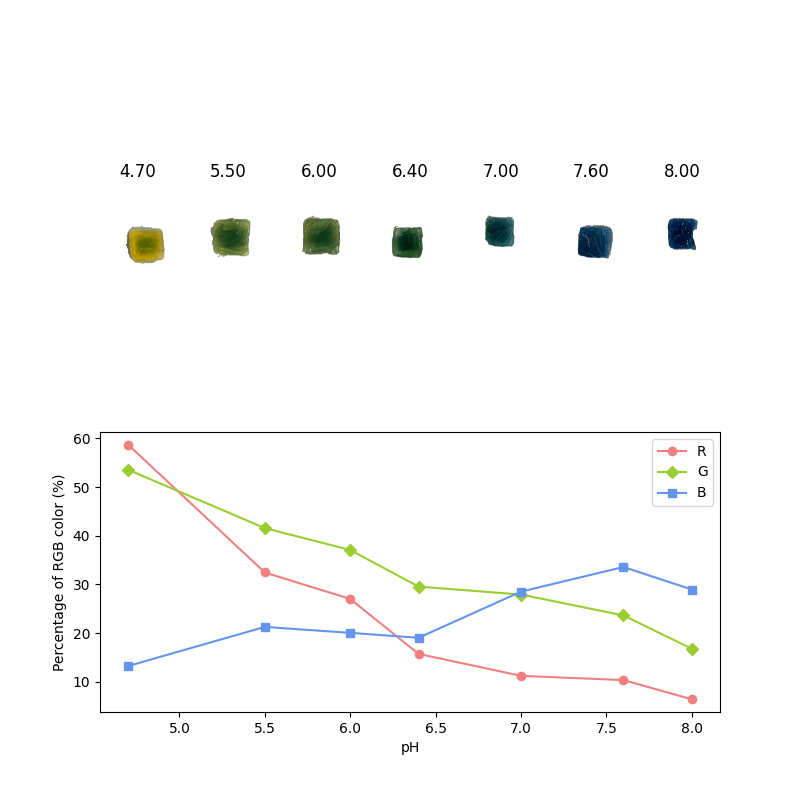
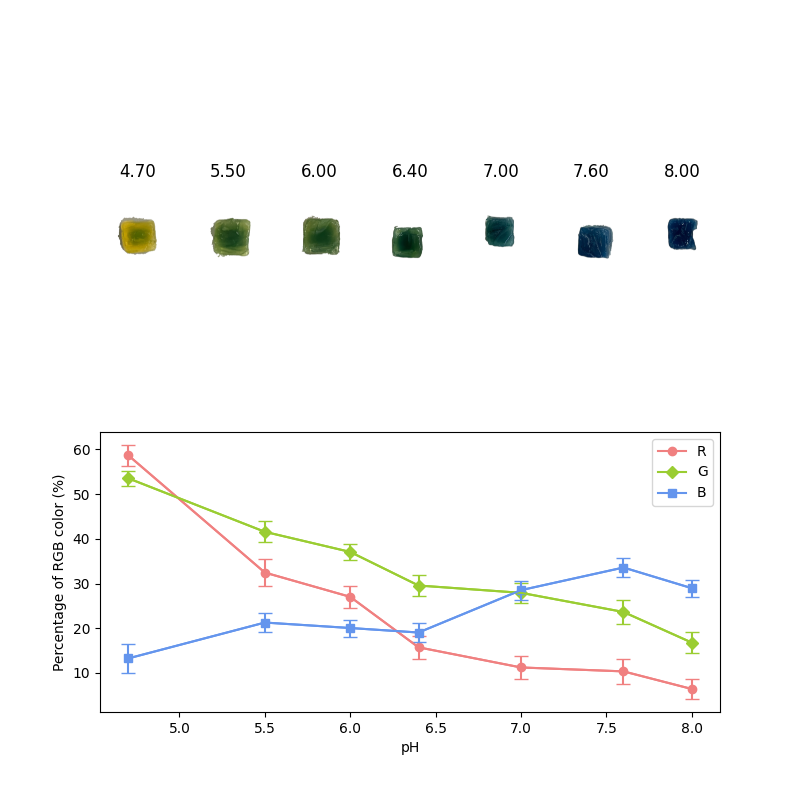
1

diff --git a/rgb_recognizer.py b/rgb_recognizer.py
@@ -1,4 +1,3 @@
-import csv
 import matplotlib.pyplot as plt
 from natsort import natsorted
 import numpy as np
@@ -6,6 +5,7 @@ import os
 import re
 import scipy.ndimage as nd
 import skimage as ski
+import statistics
 
 
 def mask_without_background(img):
@@ -62,7 +62,7 @@ def load_images(folder_name):
     image_dict[filename] = ski.io.imread(file_path)
   return image_dict
 
-def average_rgb(img):
+def get_rgb(img):
   """Get the average RGB of an image."""
   # Create a mask for white regions
   white_mask = np.all(img == [255, 255, 255], axis=-1)
@@ -73,7 +73,9 @@ def average_rgb(img):
   # Calculate the average RGB values for non-white regions
   average_rgb = np.mean(non_white_pixels, axis=0)
   normalized_rgb = [i*100/255 for i in average_rgb]
-  return normalized_rgb
+  # Calculate the standard deviation of each color
+  st_dev = [statistics.stdev([p[i]*20/255 for p in non_white_pixels]) for i in range(3)]
+  return normalized_rgb, st_dev
 
 def comparison(imgs):
   """Display the result of comparison and the RGB value of each one."""
@@ -98,23 +100,32 @@ def comparison(imgs):
   # Show RGB values
   pHs = np.array([float(re.findall(r'\d+\.\d+', i)[0]) for i in image_names])
   rgb = []
+  sd = []
   for i in image_names:
-    rgb.append(average_rgb(processed_images[i]))
-  # Show values of R
+    color, st_dev = get_rgb(processed_images[i])
+    rgb.append(color)
+    sd.append(st_dev)
+  # Plots and errorbars of R
   red = np.array([i[0] for i in rgb])
+  red_sd = [i[0] for i in sd]
   p1 = axes[1, 0].plot(pHs, red, color="lightcoral", marker="o")
-  # Show values of G
+  axes[1, 0].errorbar(pHs, red, red_sd, color="lightcoral", capsize=5)
+  # Plots and errorbars of G
   green = np.array([i[1] for i in rgb])
+  green_sd = [i[1] for i in sd]
   p2 = axes[1, 0].plot(pHs, green, color="yellowgreen", marker="D")
-  # Show values of B
+  axes[1, 0].errorbar(pHs, green, green_sd, color="yellowgreen", capsize=5)
+  # Plots and errorbars of B
   blue = np.array([i[2] for i in rgb])
+  blue_sd = [i[2] for i in sd]
   p3 = axes[1, 0].plot(pHs, blue, color="cornflowerblue", marker="s")
+  axes[1, 0].errorbar(pHs, blue, blue_sd, color="cornflowerblue", capsize=5)
   # for a, b in zip(pHs, red): 
-  #   axes[1, 0].text(a, b, str("{:.2f}".format(b)), color="red")
+  #   axes[1, 0].text(a, b, str("{:.2f}".format(b)), color="lightcoral")
   # for a, b in zip(pHs, green): 
-  #   axes[1, 0].text(a, b, str("{:.2f}".format(b)), color="green")
+  #   axes[1, 0].text(a, b, str("{:.2f}".format(b)), color="yellowgreen")
   # for a, b in zip(pHs, blue): 
-  #  axes[1, 0].text(a, b, str("{:.2f}".format(b)), color="blue")
+  #  axes[1, 0].text(a, b, str("{:.2f}".format(b)), color="cornflowerblue")
   # Add legends
   axes[1, 0].legend((p1[0], p2[0], p3[0]), ("R", "G", "B"), loc='upper right')
   # axis label

diff --git a/get_rgb.py b/get_rgb.py
@@ -62,7 +62,7 @@ def load_images(folder_name):
     image_dict[filename] = ski.io.imread(file_path)
   return image_dict
 
-def average_rgb(img):
+def get_rgb(img):
   """Get the average RGB of an image."""
   # Create a mask for white regions
   white_mask = np.all(img == [255, 255, 255], axis=-1)
@@ -98,20 +98,21 @@ def comparison(imgs):
   pHs = np.array([float(re.findall(r'\d+\.\d+', i)[0]) for i in image_names])
   rgb = []
   for i in image_names:
-    rgb.append(average_rgb(processed_images[i]))
-  # Show values of R
+    rgb.append(get_rgb(processed_images[i]))
+  # Plots of R
   red = np.array([i[0] for i in rgb])
   p1 = axes[1, 0].plot(pHs, red, color="lightcoral", marker="o")
-  for a, b in zip(pHs, red): 
-    axes[1, 0].text(a, b, str("{:.2f}".format(b)), color="lightcoral")
-  # Show values of G
+  # Plots of G
   green = np.array([i[1] for i in rgb])
   p2 = axes[1, 0].plot(pHs, green, color="yellowgreen", marker="D")
-  for a, b in zip(pHs, green): 
-    axes[1, 0].text(a, b, str("{:.2f}".format(b)), color="yellowgreen")
-  # Show values of B
+  # Plots of B
   blue = np.array([i[2] for i in rgb])
   p3 = axes[1, 0].plot(pHs, blue, color="cornflowerblue", marker="s")
+  # Show RGB values
+  for a, b in zip(pHs, red): 
+    axes[1, 0].text(a, b, str("{:.2f}".format(b)), color="lightcoral")
+  for a, b in zip(pHs, green): 
+    axes[1, 0].text(a, b, str("{:.2f}".format(b)), color="yellowgreen")
   for a, b in zip(pHs, blue): 
     axes[1, 0].text(a, b, str("{:.2f}".format(b)), color="cornflowerblue")
   # Add legends
